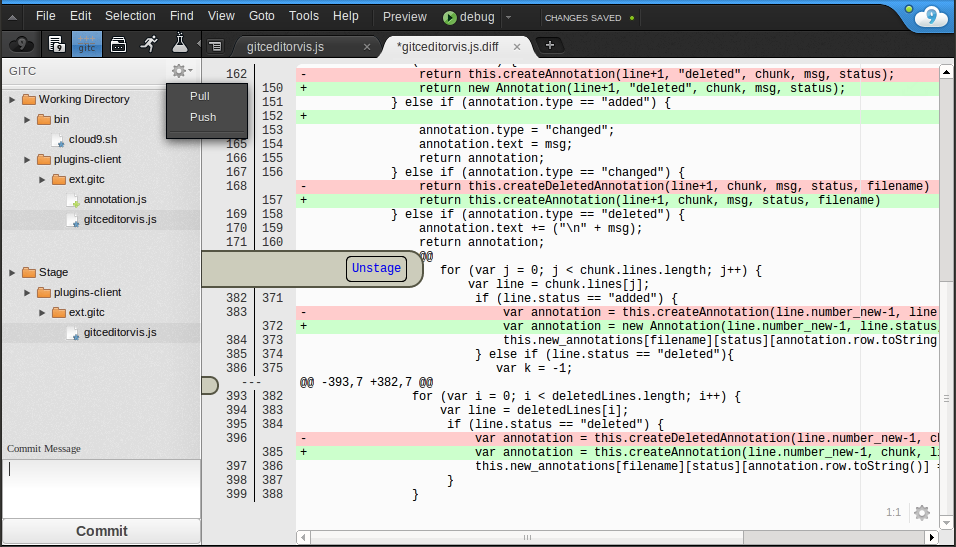
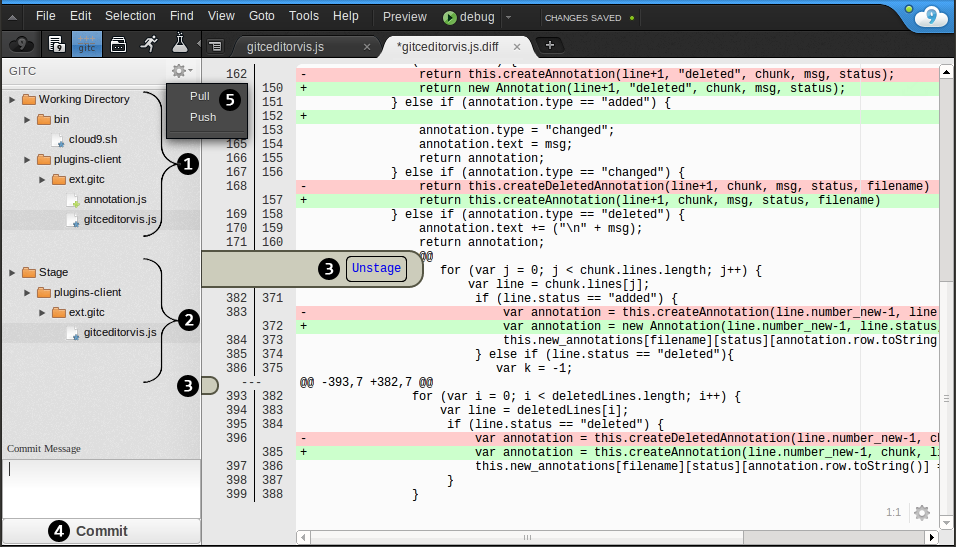
extension editor description

diff --git a/seminar/paper/chapters/extension.tex b/seminar/paper/chapters/extension.tex
@@ -6,11 +6,20 @@ Finally we will explain how we intregrated our extension to cloud9 and how we im
 
 \subsection{Description}
 \paragraph{The editor adjustments} of our extension will promt the cloud9 user immediately with visiual feedback of source code changes.
-That means while typing in the editor annotations will appear next to the left grutter line as can be seen in figure~\needcite ~\circnum{1}.
+That means while typing within the editor annotations will appear next to the left grutter line as can be seen in figure~\ref{fig:editor}.
 
-The changes show the staged and unstaged changes of the git repository.
-We choose to display both type of changes as colored annotations whereas the already staged changes are more transparent. \todo[Vgl. left right anntotation circnum]
-The color \textcolor{LimeGreen}{green} is used to visualize added, \textcolor{ProcessBlue}{blue} for changed and \textcolor{Red}{red} for deleted lines.
+The changes show the staged and unstaged changes of the git repository respectively.
+We choose to display those both types of changes as colored annotations whereas the already staged changes are more transparent.
+In the upper screenshot of the cloud9 editor are only unstaged changes displayed.
+The lower screenshot shows that the state of the git repository is changed.
+Some of the changes are staged and at~\circnum{2} and~\circnum{3} are some (new) unstaged changes.
+So in the line marked by~\circnum{2} there are both staged and unstaged changes visualized.
+The colors green, blue and red are used to visualize added~\circnum{3}, changed~\circnum{2} and deleted~\circnum{1} lines respectively.
+
+Furthermore the user will get tooltips hovering over one annotation.
+In this way deleted lines or the old content of changed lines will be displayed to the user.
+We do not provide buttons to stage, unstage or discard the changes because there is already an extension which allows developers to go back in history (see figure~\ref{fig:history}).
+As for the staging and unstaging we want to have an overview over all current changes and thus rather use the diff view than search in single source code files for changes.
 
 \begin{figure}
    \centering
@@ -19,11 +28,10 @@ The color \textcolor{LimeGreen}{green} is used to visualize added, \textcolor{Pr
    \label{fig:editor}
 \end{figure}
 
-comparison to earlier editing way, mention history extension (and why we have choosen not to implement stage etc buttons here)
-
 \paragraph{Using our diff view} the cloud9 developer can know ....
 By clicking on the pane button \circnum{1} in figure~\needcite or simply using the keyboard shortcut \texttt{strg + g} or \texttt{cmd + g} ....
 
+comparison to earlier editing way, mention history extension (and why we have choosen not to implement stage etc buttons here)
 comparison to earlier diffing, committing
 
 comparison to related work

diff --git a/seminar/paper/chapters/related_work.tex b/seminar/paper/chapters/related_work.tex
@@ -6,8 +6,8 @@ There are, however, several offline IDEs and stand-alone tools we took as inspir
 Cloud9 plugin \emph{gitc}.
 Two of them we personally use are:
 \begin{itemize}
-	\item IntelliJ IDEA
-	\item gitx
+	\item IntelliJ IDEA~\needcite
+	\item gitx~\needcite
 \end{itemize}
 In the following sections we will show which features from those tools we intended to integrate into Cloud9.
 
@@ -20,7 +20,7 @@ This means that while you type the IDE shows you what changed and how as compare
 
 \begin{figure}
 	\centering
-	\includegraphics[width=\textwidth]{images/idea-git.png}
+	\includegraphics[width=0.9\textwidth]{images/idea-git.png}
 	\caption{IntelliJ IDEA git integration}
 	\label{fig:idea}
 \end{figure}
@@ -42,7 +42,7 @@ changes, while usually IDEs such as IntelliJ IDEA only allow you to commit files
 
 \begin{figure}
 	\centering
-	\includegraphics[width=\textwidth]{images/gitx-history.png}
+	\includegraphics[width=0.9\textwidth]{images/gitx-history.png}
 	\caption{gitx history view}
 	\label{fig:gitx-history}
 \end{figure}
@@ -55,7 +55,7 @@ is this git history view. Although it hasn't been implemented, yet.
 
 \begin{figure}
 	\centering
-	\includegraphics[width=\textwidth]{images/gitx-commit.png}
+	\includegraphics[width=0.9\textwidth]{images/gitx-commit.png}
 	\caption{gitx commit view}
 	\label{fig:gitx-commit}
 \end{figure}
